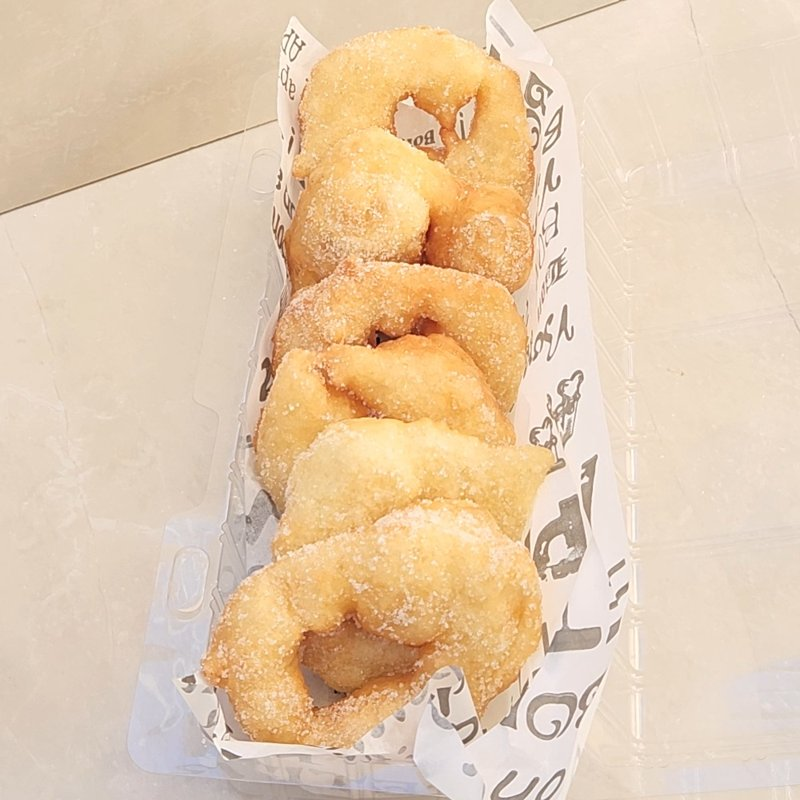
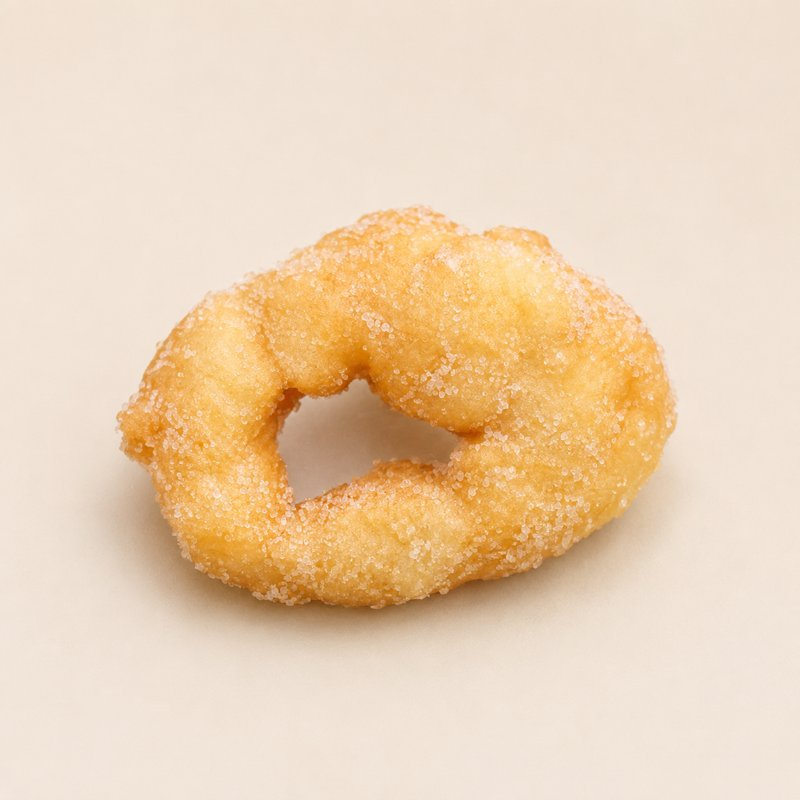
New studio photos for sfenj and fricassee

diff --git a/index.html b/index.html
@@ -224,8 +224,8 @@
       '<span class="q" id="q_'+key+idx+'">0</span><button type="button" class="inc" data-k="'+key+'" data-i="'+idx+'" data-d="1" aria-label="עוד">+</button></div></div>';
   }
   document.getElementById('jam').innerHTML = stepperRow('jam','','סופגניית ריבה','','10 ₪','jam.jpg?v=2');
-  document.getElementById('sfenj').innerHTML = stepperRow('sfSugar','',"ספינג' מצופה סוכר",'6 יחידות','29 ₪','sfenj-sugar.jpg') + stepperRow('sfPowder','',"ספינג' אבקת סוכר",'6 יחידות','29 ₪','sfenj-powder.jpg');
-  document.getElementById('fric').innerHTML = stepperRow('f8','','מארז 8 פריקסה','','180 ₪','fricassee.jpg') + stepperRow('f12','','מארז 12 פריקסה','','260 ₪','fricassee.jpg');
+  document.getElementById('sfenj').innerHTML = stepperRow('sfSugar','',"ספינג' מצופה סוכר",'6 יחידות','29 ₪','sfenj-sugar.jpg?v=2') + stepperRow('sfPowder','',"ספינג' אבקת סוכר",'6 יחידות','29 ₪','sfenj-powder.jpg');
+  document.getElementById('fric').innerHTML = stepperRow('f8','','מארז 8 פריקסה','','180 ₪','fricassee.jpg?v=2') + stepperRow('f12','','מארז 12 פריקסה','','260 ₪','fricassee.jpg?v=2');
 
   var now = new Date();
   document.getElementById('dates').innerHTML = DAYS.map(function(d,i){
